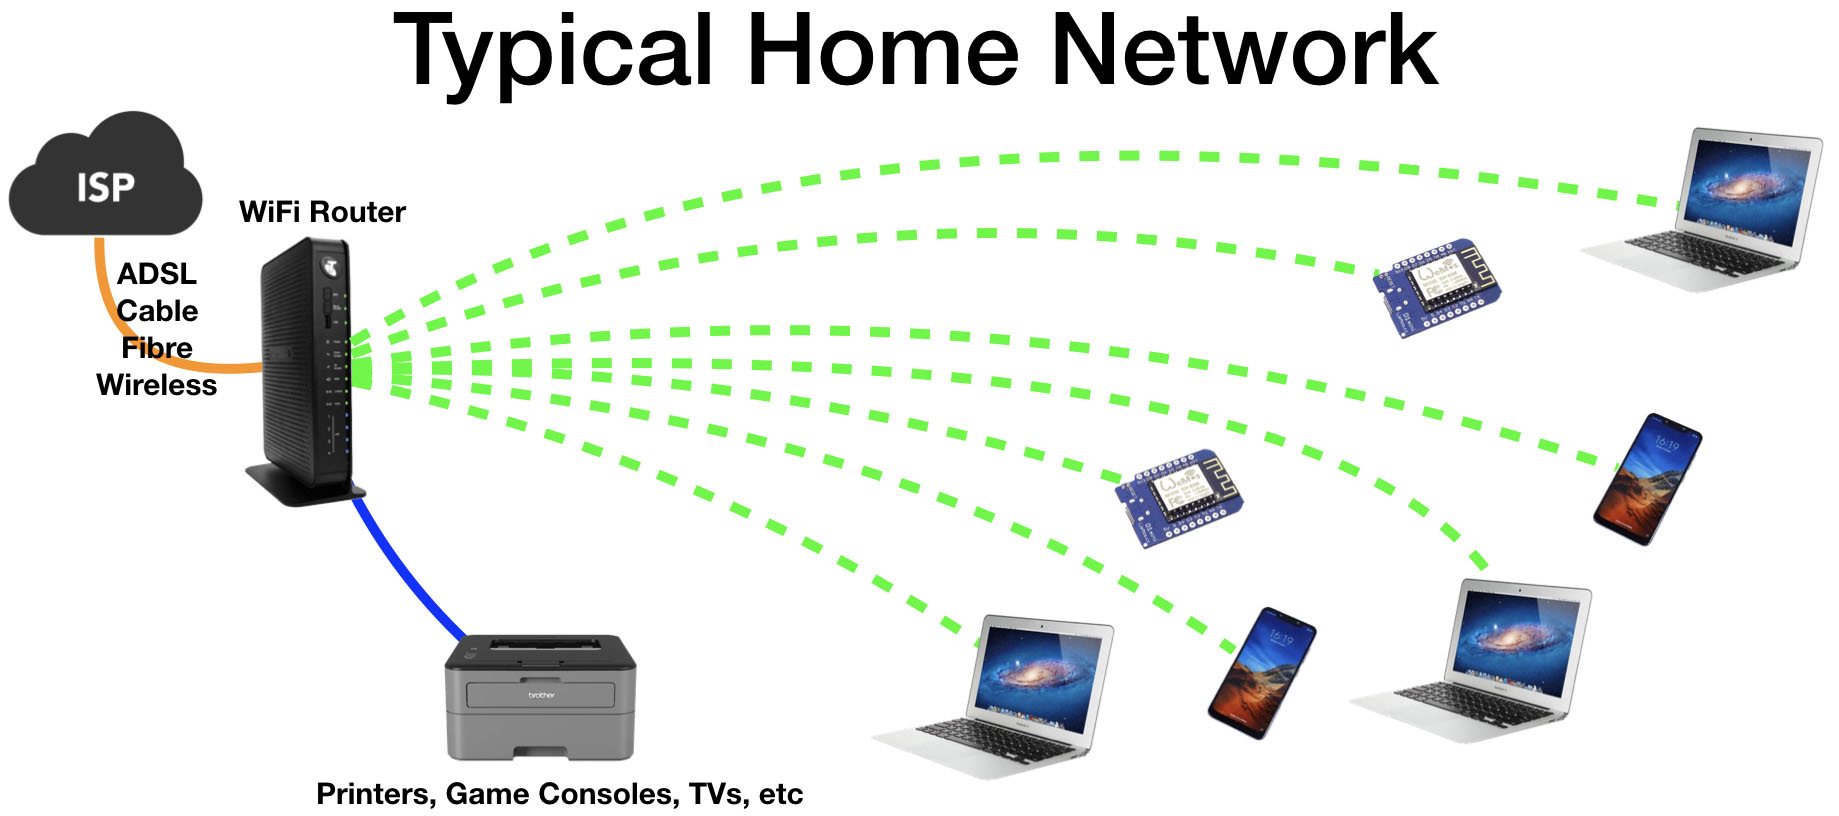
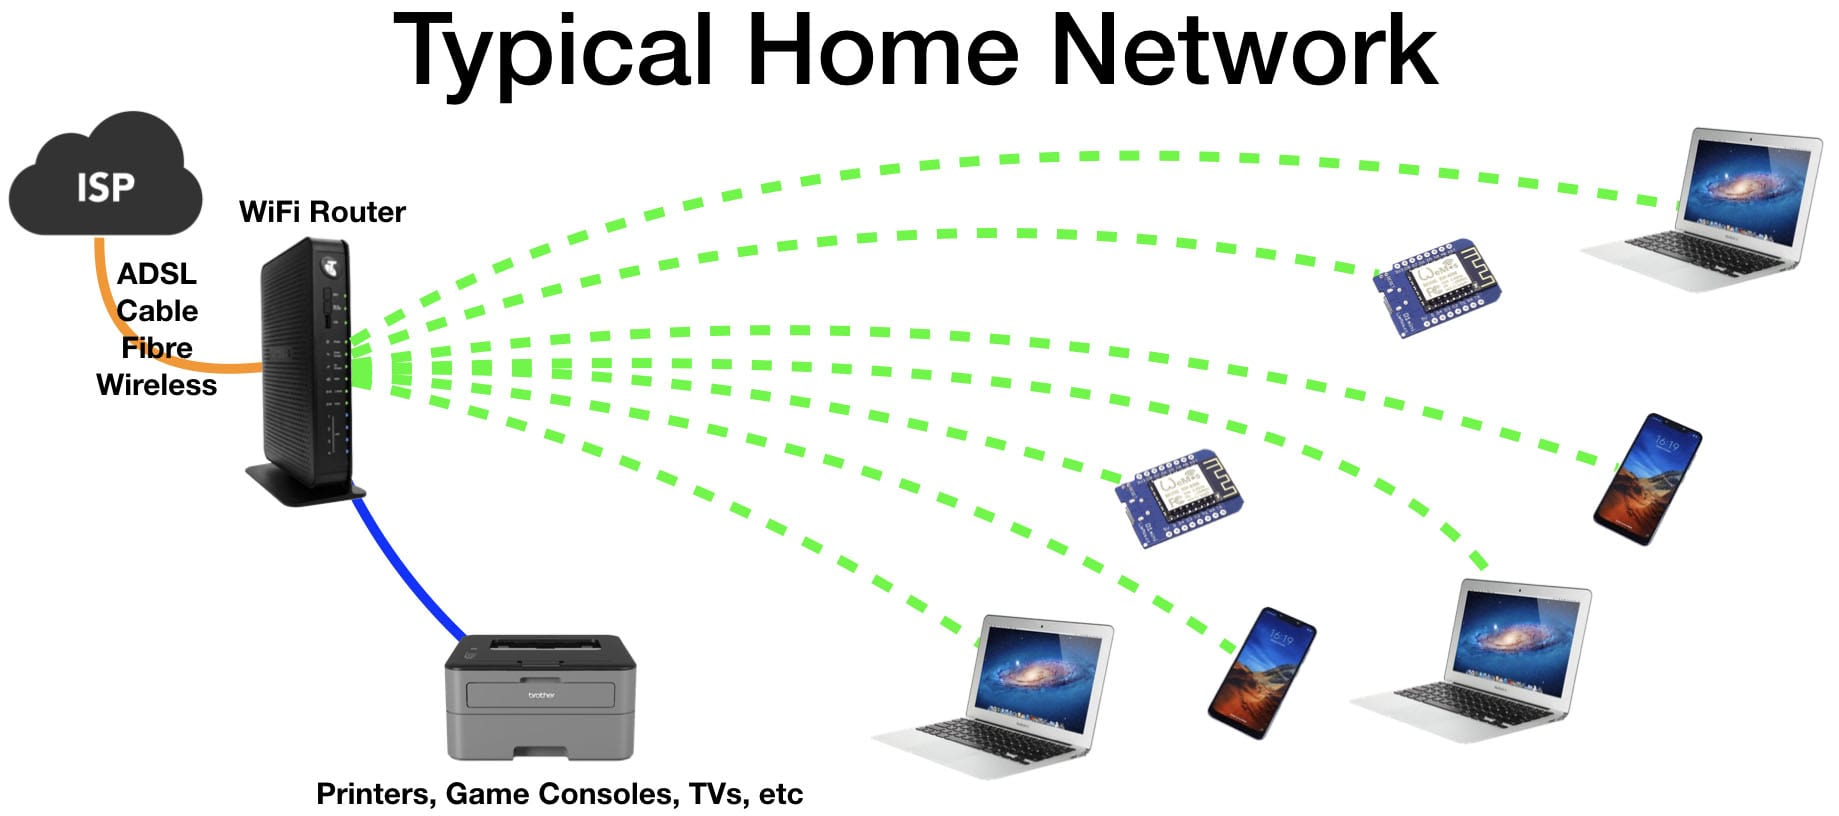
komprese obrazku

Changed region(s): [[0.186, 0.4289, 0.248, 0.4902], [0.4649, 0.2757, 0.4959, 0.3064], [0.093, 0.4289, 0.124, 0.4596]]

diff --git a/WEB/bezpecnost-domacich-siti/znalostni-baze/metody-zabezpeceni/ochrana-obvodu/index.html b/WEB/bezpecnost-domacich-siti/znalostni-baze/metody-zabezpeceni/ochrana-obvodu/index.html
@@ -37,7 +37,7 @@
     </div>
     <div class="content">
         <h1 class="pageName">Ochrana obvodu</h1>
-        <img src="./../../../assets/img/firewall.gif" alt="Znázornění práce firewallu">
+        <img src="./../../../assets/img/firewall.png" alt="Znázornění práce firewallu">
         <p>Ochrana hranic sítě je jedním z nejdůležitějších prvků bezpečnostního komplexu. V rámci domácí sítí tuto funkci vykonává směrovač.  Chrání hranici lokální a globální sítě pomoci firewallu. Podle nastavení filtruje potenciálně nebezpečná data, nebo propouští pouze povolená data. Firewall rozhoduje na základě ip adres a portů, čili na základě původu a cílové destinaci dát.</p>
         <p><em>Pro dosažení vysoké míry bezpečností je třeba mít poslední verzi programového vybavení.</em> To platí nejenom pro směrovače, ale také pro každý jiný prvek sítě. S časem se v kódu objevují stále nové bezpečnostní trhliny, a výrobci zařízení se snaží co nejrychleji na to reagovat. Ve skutečnosti ale výrobci často přestávají udržovat starší modely zařízení. </p>
         <p><em>Zároveň je rozhodující správné nastavení routeru a firewallu.</em> Router se dá nastavit podle manuálu, který se vyhledává podle modelu na internetu (http://setuprouter.com).  Často v původním nastavení jsou automatický zapnuté potenciálně nebezpečné funkce pro pohodlnější použití sítě, třeba UPnP. Pro minimalizace rizik je dobře vypnout všechny služby, které nepotřebujete, a povolit ve Firewallu pouze porty, které využíváte. Také je důležité změnit přednastavené heslo a login.</p>
